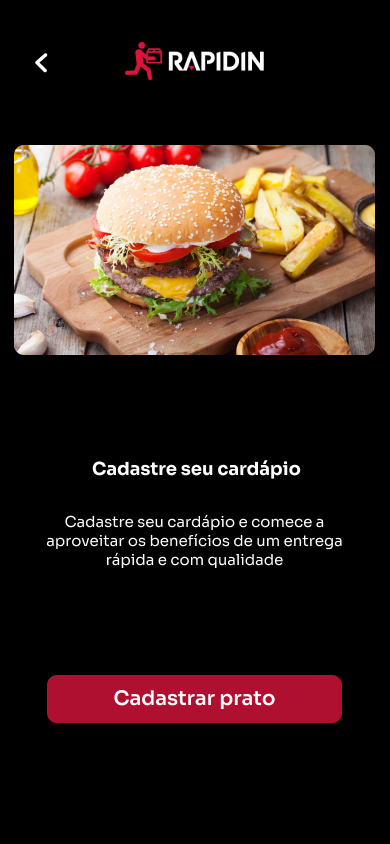
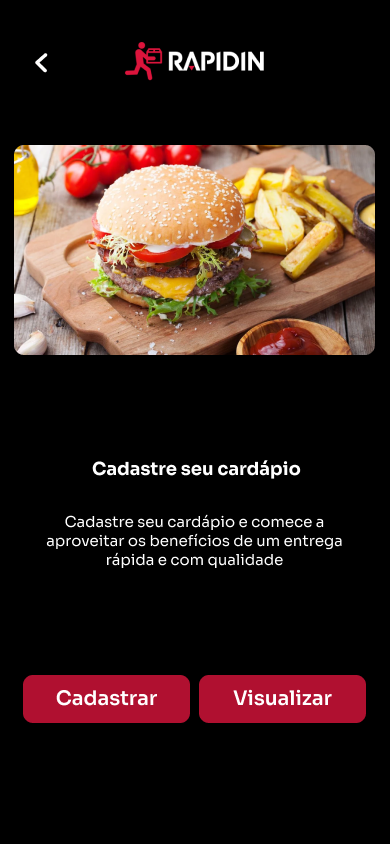
update

Changed region(s): [[0.0615, 0.8009, 0.9538, 0.8626]]

diff --git a/src/Screens/HomeRest.java b/src/Screens/HomeRest.java
@@ -8,24 +8,32 @@ public class HomeRest extends Frame {
     public HomeRest() {
         super("Rapidin", "src/Images/home_rest.png");
 
-        Button btn_menu = new Button();
-        btn_menu.setBounds(47, 675, 295, 48);
-        btn_menu.addActionListener(e -> {
+        Button btn_register = new Button();
+        btn_register.setBounds(47, 675, 167, 48);
+        btn_register.addActionListener(e -> {
             RegisterOrder registerOrder = new RegisterOrder();
             registerOrder.setVisible(true);
+            dispose();
+        });
+
+        Button btn_menu = new Button();
+        btn_menu.setBounds(205, 675, 167, 48);
+        btn_menu.addActionListener(e -> {
+            Menu menu = new Menu();
+            menu.setVisible(true);
             dispose();
         });
 
         Button btn_back = new Button();
         btn_back.setBounds(28, 50, 30, 30);
         btn_back.addActionListener(e -> {
-            System.out.println("fui clicado");
             Choice choice = new Choice();
             choice.setVisible(true);
             dispose();
         });
 
-        // Adiciona o botão à tela
+        // Adiciona à tela
+        getContentPane().add(btn_register);
         getContentPane().add(btn_menu);
         getContentPane().add(btn_back);
 

diff --git a/src/Screens/RegisterOrder.java b/src/Screens/RegisterOrder.java
@@ -17,7 +17,6 @@ public class RegisterOrder extends Frame {
         Button btn_back = new Button();
         btn_back.setBounds(28, 50, 30, 30);
         btn_back.addActionListener(e -> {
-            System.out.println("fui clicado");
             HomeRest homeRest = new HomeRest();
             homeRest.setVisible(true);
             dispose();
@@ -42,7 +41,7 @@ public class RegisterOrder extends Frame {
                     double price = Double.parseDouble(priceStr);
                     Food food = new Food(name, price);
 
-                    App.registerOrder(food);
+                    Restaurant.registerOrder(food);
 
                     OrderOk orderOk = new OrderOk();
                     orderOk.setVisible(true);

diff --git a/src/Classes/Restaurant.java b/src/Classes/Restaurant.java
@@ -1,12 +1,31 @@
 package Classes;
 
+import java.util.ArrayList;
+
 public class Restaurant {
     private String name;
     private String cnpj;
+    public static ArrayList<Food> ordersList = new ArrayList<>();
 
     public Restaurant(String name, String cnpj) {
         this.name = name;
         this.cnpj = cnpj;
+    }
+
+    public static void printMenu() {
+
+    }
+
+    public static void registerOrder(Food food) {
+        ordersList.add(food);
+
+        System.out.println(ordersList);
+    }
+
+    public static void removeOrder(Food food) {
+        ordersList.remove(food);
+
+        System.out.println(ordersList);
     }
 
     @Override

diff --git a/src/Classes/App.java b/src/Classes/App.java
@@ -5,7 +5,6 @@ import java.util.ArrayList;
 public class App {
     public static ArrayList<Restaurant> restaurantList = new ArrayList<>();
     public static ArrayList<User> usersList = new ArrayList<>();
-    public static ArrayList<Food> ordersList = new ArrayList<>();
 
     public static void registerRest(Restaurant restaurant) {
         restaurantList.add(restaurant);
@@ -17,12 +16,6 @@ public class App {
         usersList.add(user);
 
         System.out.println(usersList);
-    }
-
-    public static void registerOrder(Food food) {
-        ordersList.add(food);
-
-        System.out.println(ordersList);
     }
 
 }

diff --git a/src/Classes/Order.java b/src/Classes/Order.java
@@ -4,8 +4,11 @@ public class Order {
     private String restaurants;
     private String users;
 
-    public Order(String restaurants, String users) {
-        this.restaurants = restaurants;
-        this.users = users;
+    public static void placeOrder() {
+
+    }
+
+    public static void printOrder() {
+
     }
 }

diff --git a/src/Classes/Food.java b/src/Classes/Food.java
@@ -9,6 +9,14 @@ public class Food {
         this.price = price;
     }
 
+    public String getName() {
+        return name;
+    }
+
+    public double getPrice() {
+        return price;
+    }
+
     @Override
     public String toString() {
         return name + " " + price;
